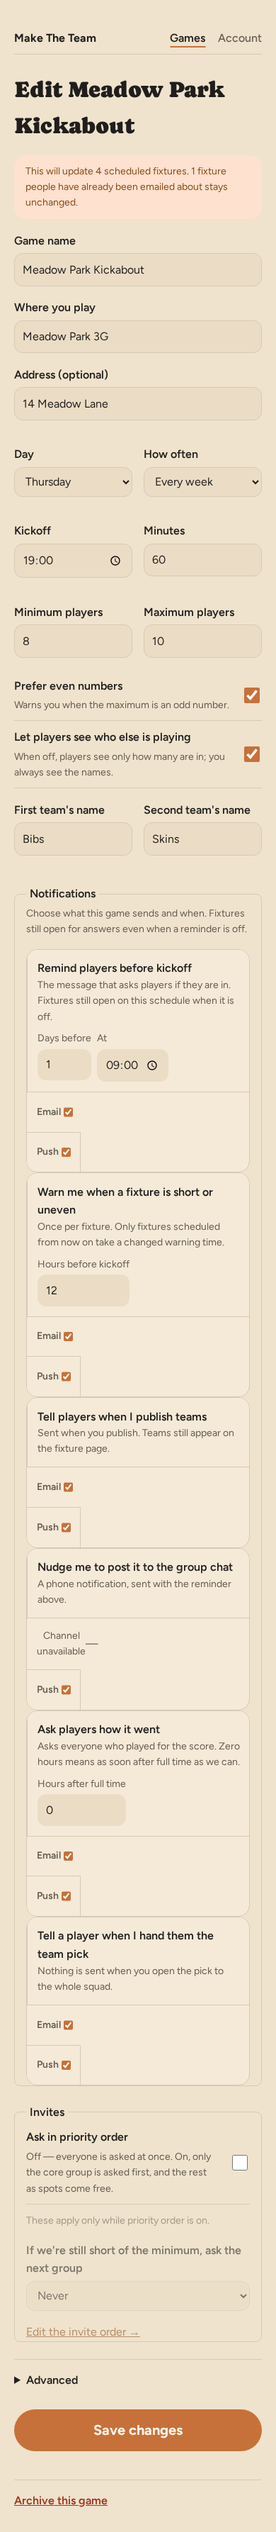
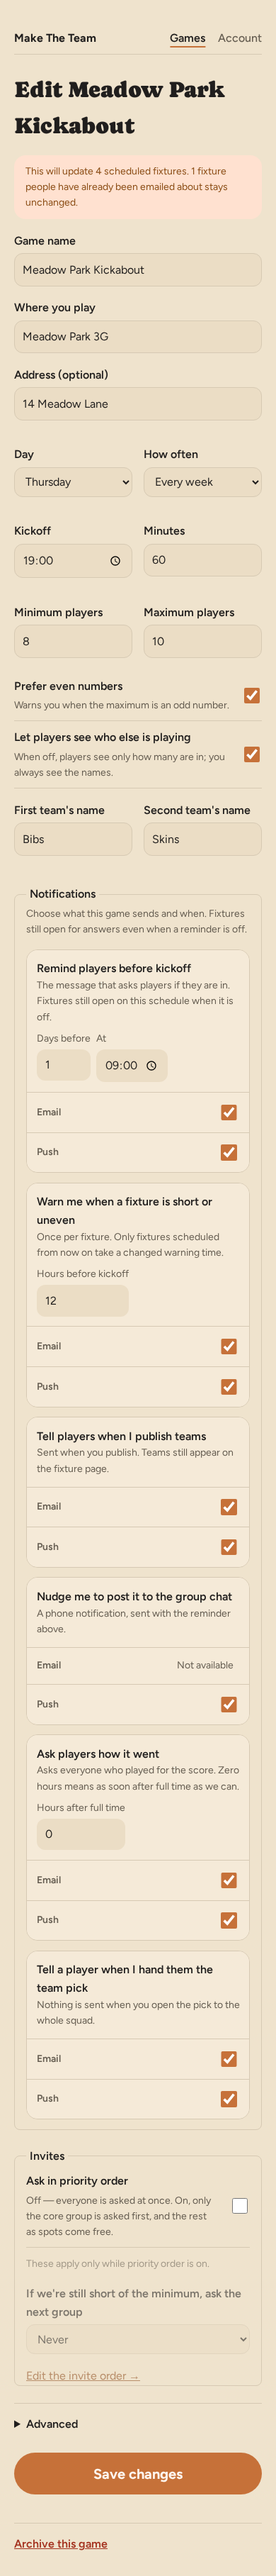
Fix notification settings on a phone
Below 40rem each notification row becomes a card of stacked cells, but the
desktop cell rules were more specific than the phone overrides and won:
td.notify-cell's 76px width, and the td:first-child / td:last-child side
borders. Every Email/Push cell rendered as a narrow box with a stray edge,
and a channel a message never uses showed "Channel unavailable" beside a
bare dash, without saying which channel.

- Undo the width and side edges at the desktop rules' own specificity.
- The empty cell names its channel ("Email · Not available") on a phone and
  keeps its dash on desktop, where the column heading names it.
- Cards get a gap: border-spacing does nothing once rows are blocks.

test/browser/layout.spec.ts measures the rendered cells at 390px — a string
test cannot see which of two rules the cascade picks. It failed on every
cell before the fix. Guide images recaptured; ui-standards drops the defect.

Claude-Session: https://claude.ai/code/session_013YNuB51pxJXty2Pimnqbns

diff --git a/test/browser/layout.spec.ts b/test/browser/layout.spec.ts
@@ -167,3 +167,54 @@ test("a squad row is one line at desktop width", async ({ page, browser }) => {
   // at least as compact as the phone case now is.
   expect(summaryBox.y).toBeLessThan(nameBox.y + nameBox.height);
 });
+
+/**
+ * Below 40rem each notification row becomes a card of stacked cells, but the
+ * desktop rules for the same cells are more specific than the phone overrides
+ * (`td.notify-cell { width: 76px }`, the `td:first-child`/`td:last-child`
+ * edges), so until 23 September 2026 they won: every channel cell rendered
+ * 76px wide inside its card, with the desktop row's side border still on it.
+ * A string test cannot see which of two rules the cascade picks, so this
+ * measures the rendered cells.
+ */
+test("notification settings stack into full-width cards at phone width", async ({ page, browser }) => {
+  await page.setViewportSize({ width: 390, height: 844 });
+  const world = await seedWorld(page, browser);
+  await page.goto(`/g/${world.gameId}/edit`);
+
+  const rows = page.locator("table.notify-matrix tbody tr");
+  const rowCount = await rows.count();
+  expect(rowCount, "the edit form should list the game's notifications").toBeGreaterThan(1);
+
+  const problems: string[] = [];
+  for (let r = 0; r < rowCount; r += 1) {
+    const row = rows.nth(r);
+    const rowBox = (await row.boundingBox())!;
+    const cells = row.locator("td");
+    const cellCount = await cells.count();
+    for (let c = 0; c < cellCount; c += 1) {
+      const cell = cells.nth(c);
+      const box = (await cell.boundingBox())!;
+      const edges = await cell.evaluate((el) => {
+        const { getComputedStyle } = globalThis as unknown as {
+          getComputedStyle: (element: unknown) => { borderLeftWidth: string; borderRightWidth: string };
+        };
+        const style = getComputedStyle(el);
+        return `${style.borderLeftWidth}/${style.borderRightWidth}`;
+      });
+      const where = `row ${r + 1} cell ${c + 1}`;
+      // The card's own 1px border sits outside its cells.
+      if (Math.abs(box.width - (rowBox.width - 2)) > 2) {
+        problems.push(`${where} is ${Math.round(box.width)}px wide in a ${Math.round(rowBox.width)}px card`);
+      }
+      if (edges !== "0px/0px") problems.push(`${where} keeps side borders ${edges}`);
+    }
+  }
+  expect(problems, problems.join("\n")).toEqual([]);
+
+  // A channel this message never uses names the channel, rather than leaving
+  // a bare dash beside a label that doesn't say which channel it means.
+  const none = page.locator("table.notify-matrix td.notify-none").first();
+  await expect(none.locator(".notify-channel")).toBeVisible();
+  await expect(none).toContainText("Not available");
+});

diff --git a/src/views/styles.ts b/src/views/styles.ts
@@ -1462,18 +1462,21 @@ export const NOTIFY_MATRIX_CSS = `
   table.notify-matrix .notify-timing .error { display: block; margin-top: 0.3rem; color: var(--warn); font-size: var(--t-support); }
   .notify-unavailable { display: none; }
   @media (max-width: 40rem) {
-    table.notify-matrix { border-spacing: 0 0.85rem; }
     table.notify-matrix thead { display: none; }
     table.notify-matrix, table.notify-matrix tbody, table.notify-matrix tr, table.notify-matrix td { display: block; width: 100%; }
-    table.notify-matrix tr { border: 1px solid var(--line); border-radius: 1rem; overflow: hidden; background: var(--card); }
+    /* Rows are blocks here, so border-spacing no longer separates them. */
+    table.notify-matrix tr { border: 1px solid var(--line); border-radius: 1rem; overflow: hidden; background: var(--card); margin-bottom: 0.85rem; }
     table.notify-matrix td { border: 0; border-radius: 0 !important; padding: 0.85rem 0.9rem; }
+    /* The desktop cell rules above are more specific than a bare td, so the
+       width and the side edges they set have to be undone at their own
+       specificity or they win on a phone. */
+    table.notify-matrix td:first-child, table.notify-matrix td:last-child { border-left: 0; border-right: 0; }
     table.notify-matrix td.notify-what { border-bottom: 1px solid var(--line); }
-    table.notify-matrix td.notify-cell { display: flex; align-items: center; justify-content: space-between; min-height: 52px; border-bottom: 1px solid var(--line); }
+    table.notify-matrix td.notify-cell { display: flex; align-items: center; justify-content: space-between; width: 100%; min-height: 52px; border-bottom: 1px solid var(--line); }
     table.notify-matrix td.notify-cell:last-child { border-bottom: 0; }
     .notify-channel { display: inline; font-weight: 600; }
     .notify-unavailable { display: inline; margin-left: auto; margin-right: 0.5rem; font-size: var(--t-support); color: var(--mut); }
-    table.notify-matrix td.notify-none { display: flex; align-items: center; justify-content: space-between; }
-    table.notify-matrix td.notify-none::before { content: "Channel unavailable"; font-size: var(--t-support); color: var(--mut); }
+    table.notify-matrix td.notify-none .notify-dash { display: none; }
     table.notify-matrix .notify-timing { gap: 0.5rem; }
   }
 `;

diff --git a/src/views/game-form.ts b/src/views/game-form.ts
@@ -351,7 +351,11 @@ export function renderGameFormPage(params: GameFormPageParams): string {
 
   const cell = (row: NotificationRowView, channel: Channel): string => {
     const found = row.cells.find((c) => c.channel === channel);
-    if (!found) return `<td class="notify-cell notify-none">—</td>`;
+    // A dash on desktop, where the column heading names the channel; on a
+    // phone the headings are gone, so the card row names it instead.
+    if (!found) {
+      return `<td class="notify-cell notify-none"><span class="notify-channel">${escapeHtml(CHANNEL_LABEL[channel])}</span><span class="notify-unavailable">Not available</span><span class="notify-dash">—</span></td>`;
+    }
     const name = cellFieldName(row.type, channel);
     if (!found.adminAllows) {
       return `<td class="notify-cell"><span class="notify-channel">${escapeHtml(CHANNEL_LABEL[channel])}</span><input id="${escapeHtml(name)}" name="${escapeHtml(name)}" type="checkbox" disabled aria-label="${escapeHtml(`${row.label} — ${CHANNEL_LABEL[channel]}`)}" aria-describedby="${escapeHtml(name)}-note"></td>`;

diff --git a/test/views/game-form-notifications.test.ts b/test/views/game-form-notifications.test.ts
@@ -45,7 +45,7 @@ describe("the owner notifications matrix", () => {
     const html = renderGameFormPage({ ...BASE, notifications: rows() });
     expect(html).not.toContain('name="notify.n11.email"');
     expect(html).not.toContain('name="notify.n11.email.seen"');
-    expect(html).toMatch(/data-notification="n11"[\s\S]*?<td class="notify-cell notify-none">—<\/td>/);
+    expect(html).toMatch(/data-notification="n11"[\s\S]*?<td class="notify-cell notify-none"><span class="notify-channel">Email<\/span><span class="notify-unavailable">Not available<\/span><span class="notify-dash">—<\/span><\/td>/);
   });
 
   it("renders an administrator-disabled cell unchecked, disabled, without its marker, and says why", () => {

diff --git a/docs/design/ui-standards.md b/docs/design/ui-standards.md
@@ -141,51 +141,46 @@ Known departures, found on 23 September 2026. Fixing one is welcome; copying one
 
 **Defects**
 
-1. **Notification settings are broken on a phone.** Below 40rem each row becomes a stacked
-   card, but three desktop rules in `NOTIFY_MATRIX_CSS` out-specify the phone overrides:
-   `td.notify-cell { width: 76px }` and the `td:first-child` / `td:last-child` borders and
-   radii. The Push cell renders as a narrow bordered box, and "Channel unavailable" sits beside
-   a stray rule. Visible in `docs/guide/images/notification-settings.png` and `edit-game.png`.
-2. **Accent text is below 4.5:1 in light mode** — `--accent` on `--bg` is 2.84:1, on
+1. **Accent text is below 4.5:1 in light mode** — `--accent` on `--bg` is 2.84:1, on
    `--accent-mut` 2.91:1. Used as normal-size text by `.your-side`, `.chip-in`,
    `.squad .status-in`, `.this-device`, `.door-open` and the `.button.expected` label. The
    contrast test floors that pair at 2.5 only. Dark mode passes.
 
-3. **Squad visibility and the picker page — decision needed.** The picker page shows every
+2. **Squad visibility and the picker page — decision needed.** The picker page shows every
    name regardless of `Let players see who else is playing`: the "in" players to any picker
    since M29, and since M66 the whole roster to a named delegate. Picking sides needs names,
    so this may be intended, but it is not recorded as an exception anywhere.
-4. **Sorting Standings in `See this as a player` drops the preview.** The sort link replaces
+3. **Sorting Standings in `See this as a player` drops the preview.** The sort link replaces
    the query string, so `?as=player` is lost and the organiser view comes back. Read from the
    markup, not reproduced.
 
 **Inconsistencies**
 
-5. **Nine text-input treatments** instead of one. `.result-score`, the notification timing
+4. **Nine text-input treatments** instead of one. `.result-score`, the notification timing
    inputs and `.invite-link` are borderless; `.signin` and `.invite-add` use a 2px border on
    `--bg`; the cancel textarea, device-name input and invite selects use a 1px border on
    `--bg` with smaller radii.
-6. **Four warning boxes** that mean the same thing: `.nudge`, `.form-error`, `.problem` (the
+5. **Four warning boxes** that mean the same thing: `.nudge`, `.form-error`, `.problem` (the
    last two declared identically in two blocks) and `.usage-warning`.
-7. **Compact buttons are redefined locally** at least five times with different paddings and
+6. **Compact buttons are redefined locally** at least five times with different paddings and
    weights (update overlay, onboarding, squad rows, team workspace, device rows).
-8. **No shared card primitive.** About twenty card surfaces use four raised and four bordered
+7. **No shared card primitive.** About twenty card surfaces use four raised and four bordered
    radii and nearly as many paddings; the design-system radii are 999px, 1.25rem and 0.75rem,
    but nineteen distinct values exist.
-9. **No team identity tokens.** Sides are drawn with the `--fg` / `--bg` inversion.
-10. **Focus and touch-target gaps.** No custom focus style on plain links, the generic
+8. **No team identity tokens.** Sides are drawn with the `--fg` / `--bg` inversion.
+9. **Focus and touch-target gaps.** No custom focus style on plain links, the generic
    `summary`, checkboxes, `.invite-remove`, `.result-withdraw` and several invite inputs. No
    44px floor on `.invite-remove`, `.result-withdraw`, `.danger-link`, the generic summaries
    and the WhatsApp option checkboxes.
-11. **No global `h3`.** Each component sets its own, and `.team-workspace h3` gets the browser
+10. **No global `h3`.** Each component sets its own, and `.team-workspace h3` gets the browser
    default size.
-12. **Hard-coded colours** outside the tokens: the update toast's shadow, the manifest's
+11. **Hard-coded colours** outside the tokens: the update toast's shadow, the manifest's
     `background_color` (`#fbfaf8`, matching no surface), the app icon, the QR code, and the
     email templates' inline palette.
-13. **The invite-order counter asks for IBM Plex Mono at weight 600**, which is not loaded.
-14. **Stale CSS comments** describe a dashed `.read-only` border, an accent confirmed badge
+12. **The invite-order counter asks for IBM Plex Mono at weight 600**, which is not loaded.
+13. **Stale CSS comments** describe a dashed `.read-only` border, an accent confirmed badge
     and an outlined default button, none of which exist any more.
-15. **`.keep-link` lives in `CANCEL_STYLES_CSS`**, so three other confirmation pages load the
+14. **`.keep-link` lives in `CANCEL_STYLES_CSS`**, so three other confirmation pages load the
     whole cancel block for one rule.
 
 **Data seen only in the guide's captures**
